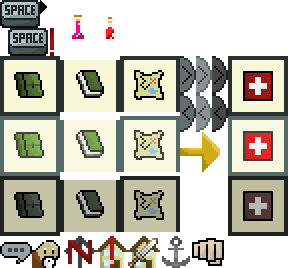
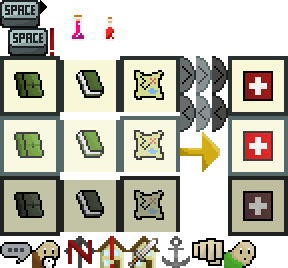
Added a new quest image

Changed region(s): [[0.75, 0.8955, 0.9062, 1.0]]

diff --git a/src/etc/constants.py b/src/etc/constants.py
@@ -243,4 +243,5 @@ quest_images = {
     "fisherman": (160, 236, 32, 32),
     "learn_fight": (192, 236, 32, 32),
     "old_man2": (32, 236, 32, 32),
+    "dan": (224, 236, 32, 32)
 }
